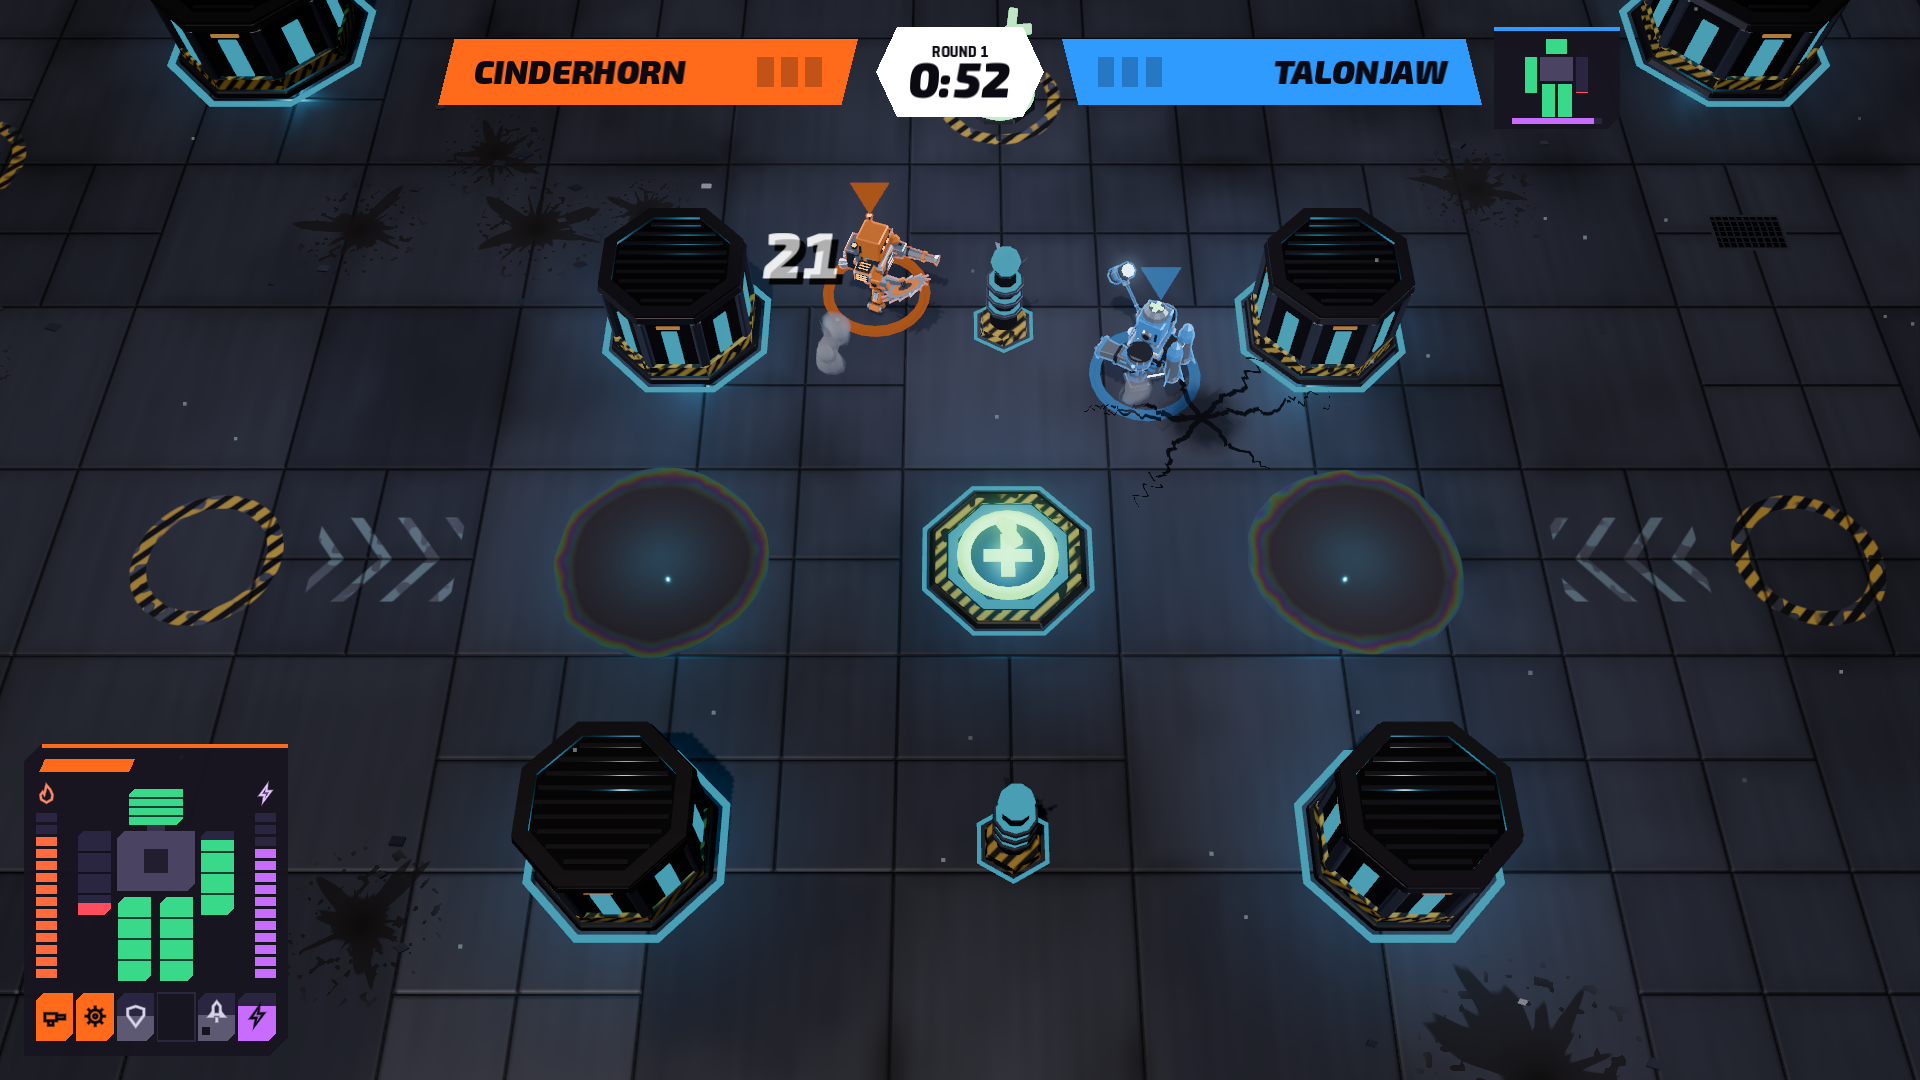
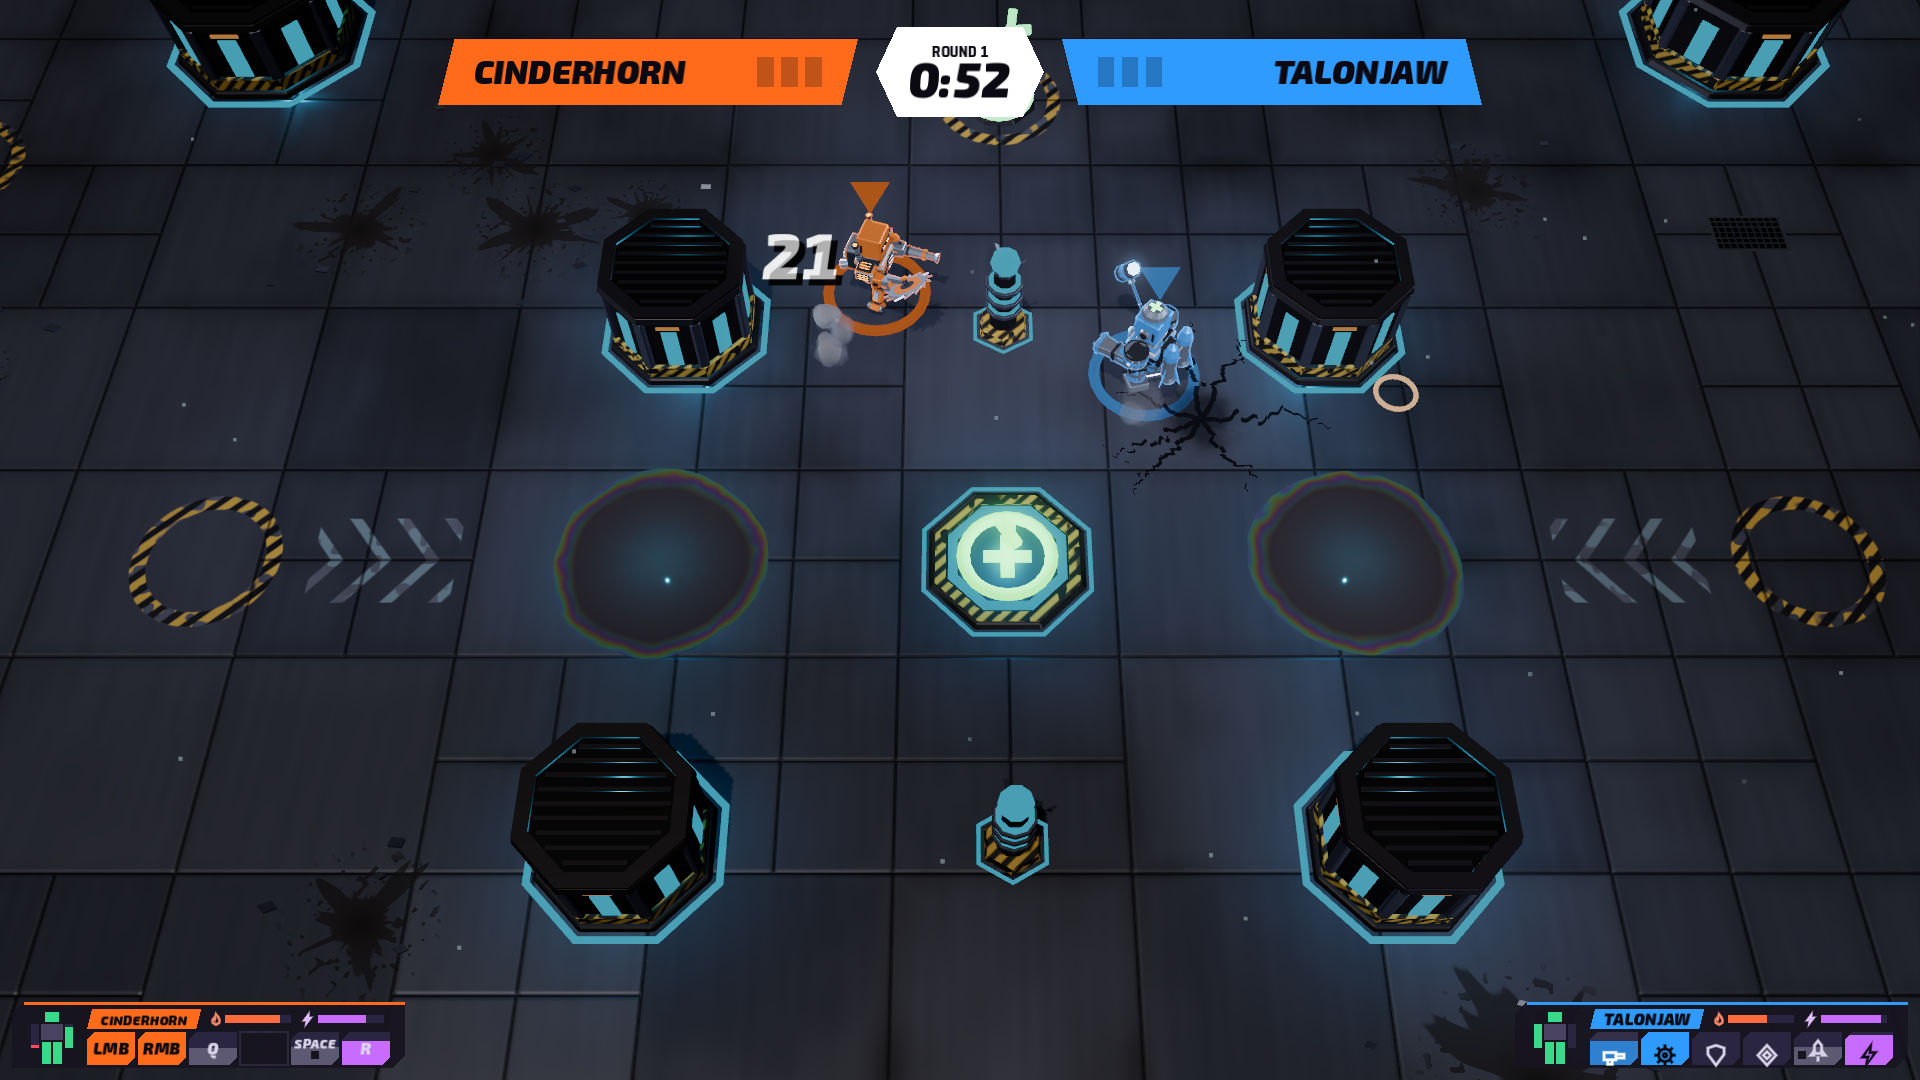
docs(hud): slim strip is the only duel HUD, 1v1 after screenshot
Story: hud-compact

diff --git a/CLAUDE.md b/CLAUDE.md
@@ -367,14 +367,13 @@ $P = "$R\godot"
   `--menu`, `--mode=solo|coop|versus`, `--seats[=set:team,...]` (e.g. `--seats=sniper:0,tank:0,:1`), `--credits`, `--humans=<1..4>` (extra local humans on pads 1..3, idle). Evidence:
   `production/qa/evidence/duel-*-2026-10-31.png`.
 - **Arcade UI, duel part** (Victor 2026-10-30, design "Arcade"; `look.gd` `ARCADE` is the one palette, siege
-  and garage restyle on top of it). `hud.gd`: side panel for 1-2 mechs (`side_panel`, Victor 2026-10-30: bottom-left, 176×208, no text: heat and R gauges
-  around a robot diagram where every part is a health bar (`part_block`: green > 75%, yellow, orange, red,
-  black hatch = destroyed), six icon slots from `slot` / `icon_lines`: gun or blade by weapon kind, shield, E
-  skill, dash pips, R surge fill; a cooldown is a fill that rises (`cd_peak`), a jammed arm a red bottom bar; the
-  rival gets a mini health-bar diagram next to its name tag, `rival_bot`), with 3-4 mechs, or two humans in a 1v1,
-  one slim strip per mech (`strip`, 262×44 in the 1280×720 canvas; `strip_rects` puts them in the four screen
-  corners along the top and bottom edges, Victor 2026-10-31: "the hud is too big"): mini health-bar robot, name tag,
-  heat and R meters, the six `slot`s. A human's slots print its own device's keys (`cap(seat, key)`: keyboard names,
+  and garage restyle on top of it). `hud.gd`: one slim strip per mech, always, whatever the format or the number of players (`strip`, 262×44
+  in the 1280×720 canvas; `strip_rects` puts them in the four screen corners along the top and bottom edges,
+  Victor 2026-10-31: "the hud is too big", then "always use the slim HUD, no matter how many players"): mini
+  health-bar robot where every part is a bar (`part_block`: green > 75%, yellow, orange, red, black hatch =
+  destroyed), name tag, heat and R meters, the six `slot`s from `slot` / `icon_lines` (gun or blade by weapon kind,
+  shield, E skill, dash pips, R surge fill; a cooldown is a fill that rises (`cd_peak`), a jammed arm a red bottom
+  bar). The big `side_panel` (176×208) is now Core Siege only. A human's slots print its own device's keys (`cap(seat, key)`: keyboard names,
   or pad names when `main.aims[seat].on_pad`), a bot's show icons. K.O.'d ones faded. `top_bar` (skewed team tags + hex
   clock; score chips with more than 2 mechs), `callout` (Exo 2 between hazard stripes, -3°), `slam` (round end), `match_over`
   (round list from `rounds`, tracked in `_process`), `pause_screen` (slabs drawn over empty Buttons so focus
